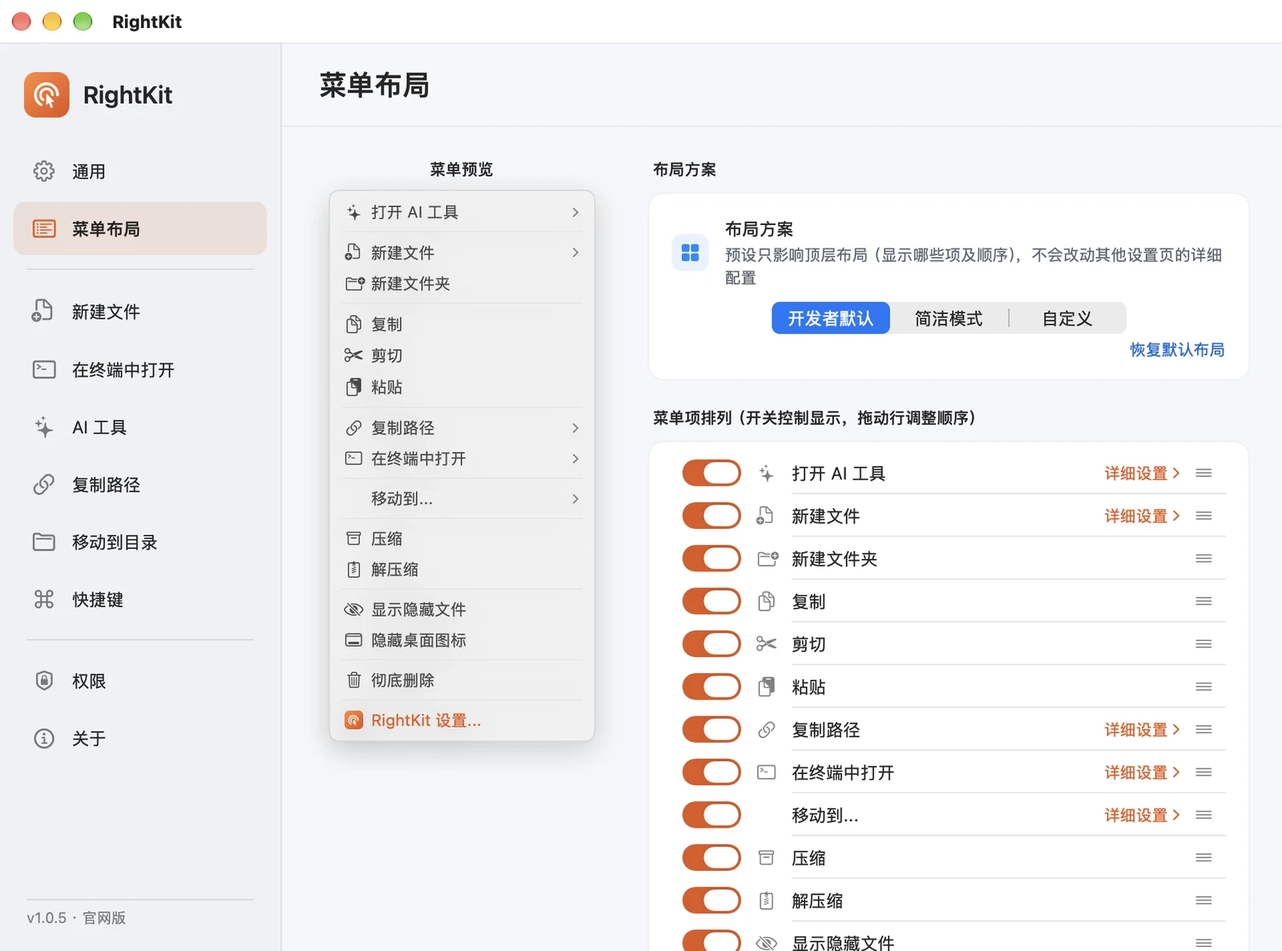
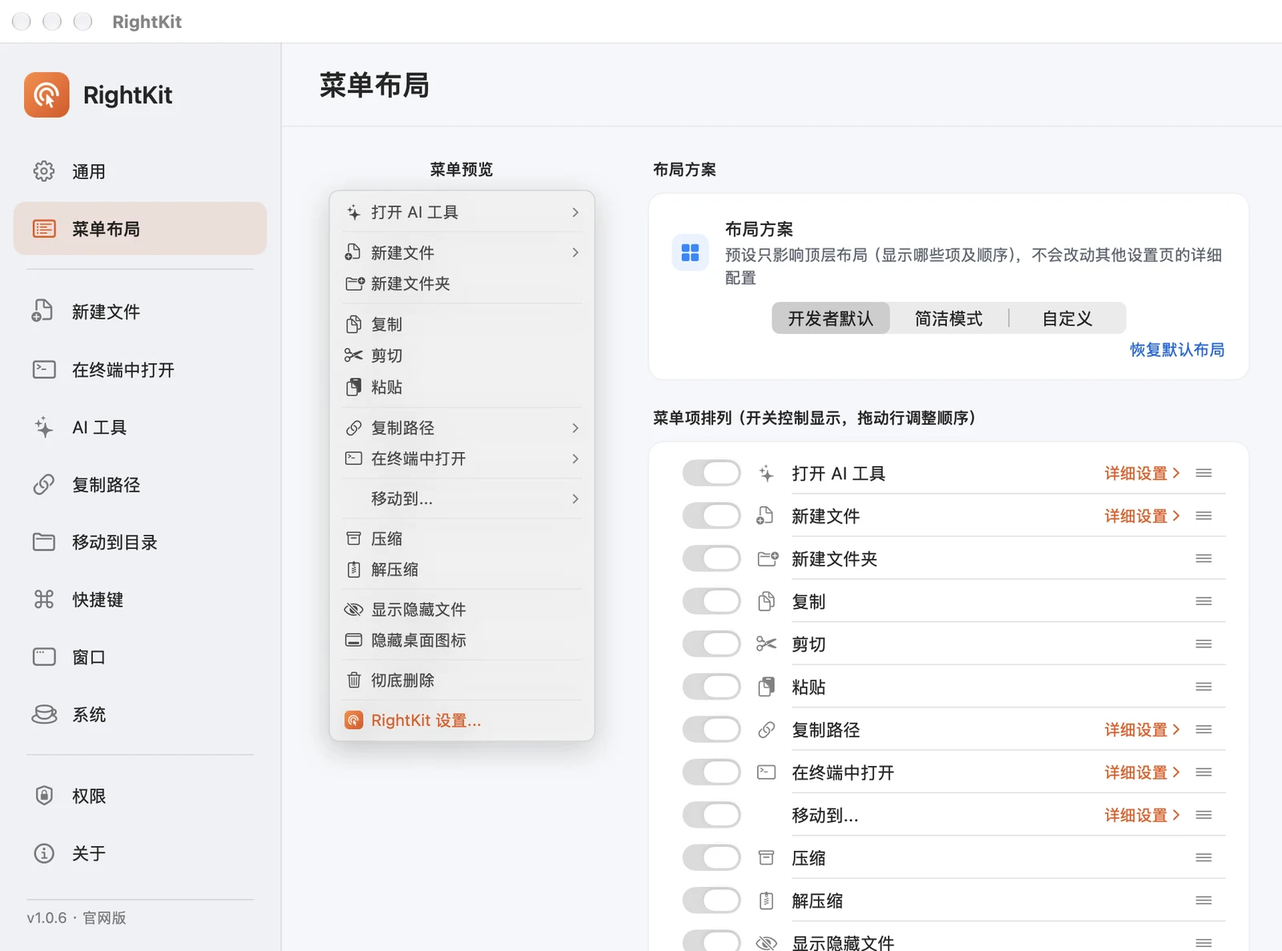
feat(desktop): 新增窗口工具和防休眠，准备 1.0.6 发布

diff --git a/i18n.js b/i18n.js
@@ -98,6 +98,10 @@
       "feat.12.p": "录屏、截图想要干净的桌面？一键隐藏全部桌面图标，用完一键恢复。",
       "feat.13.h": "彻底删除",
       "feat.13.p": "跳过废纸篓直接删除，误触前会二次确认弹窗，清理大文件或敏感内容更安心。",
+      "feat.awake.h": "防休眠与应用自动化",
+      "feat.awake.p": "5 分钟至 8 小时或不限时长，独立控制屏幕常亮，低电量/高温自动结束；可按应用运行状态自动开启。两个渠道均可用。",
+      "feat.windows.h": "窗口工具（官网版）",
+      "feat.windows.p": "Dock 单击最小化、Dock/⌘Tab 预览、摇动聚焦、隐藏与撤销。窗口操作支持 macOS 13+，预览 14+，调度中心增强 15+，需对应系统权限。",
 
       "settings.kicker": "个性化",
       "settings.h2": "菜单该有的样子，你说了算",
@@ -139,7 +143,7 @@
       "faq.q3": "会拖慢 Finder 或占用很多资源吗？",
       "faq.a3": "不会。RightKit 基于 Apple 官方的 FinderSync 扩展机制实现，菜单按需构建，后台常驻内存占用极小。",
       "faq.q4": "App Store 版和官网版有什么区别？",
-      "faq.a4": "两版都提供新建文件、复制路径、剪切粘贴、移动、压缩和剪贴板历史。App Store 版通过内购解锁，并支持 iCloud 配置同步；官网 DMG 版通过 License Key 激活，另有 AI 工具、全局快捷键及 Finder 显隐开关。两个渠道的购买独立，均可永久使用。",
+      "faq.a4": "两版都有文件操作、剪贴板历史、防休眠和应用自动化。App Store 版通过内购解锁并支持 iCloud 配置同步；官网版使用 License Key，另有 AI 工具、全局快捷键、Finder 显隐、窗口工具与兼容 Mac 的合盖选项。两个渠道独立购买，均可永久使用。",
       "faq.q5": "我的数据安全吗？",
       "faq.a5": "RightKit 不收集、不上传任何文件内容或使用数据。剪贴板历史仅保存在本机，并自动跳过密码管理器标记的隐私内容。",
 
@@ -345,6 +349,10 @@
       "feat.12.p": "螢幕錄影、截圖想要乾淨的桌面？一鍵隱藏全部桌面圖示，用完一鍵恢復。",
       "feat.13.h": "徹底刪除",
       "feat.13.p": "跳過垃圾桶直接刪除，誤觸前會二次確認彈窗，清理大檔案或敏感內容更安心。",
+      "feat.awake.h": "防休眠與應用程式自動化",
+      "feat.awake.p": "5 分鐘至 8 小時或不限時長，獨立控制螢幕常亮，低電量/高溫自動結束；可依應用程式執行狀態自動開啟。兩個渠道均可用。",
+      "feat.windows.h": "視窗工具（官網版）",
+      "feat.windows.p": "Dock 單擊最小化、Dock/⌘Tab 預覽、搖動聚焦、隱藏與復原。視窗操作支援 macOS 13+，預覽 14+，指揮中心增強 15+，需相應系統權限。",
 
       "settings.kicker": "個人化",
       "settings.h2": "選單該有的樣子，你說了算",
@@ -386,7 +394,7 @@
       "faq.q3": "會拖慢 Finder 或佔用很多資源嗎？",
       "faq.a3": "不會。RightKit 基於 Apple 官方的 FinderSync 擴充機制實現，選單按需建構，背景常駐記憶體佔用極小。",
       "faq.q4": "App Store 版和官網版有什麼區別？",
-      "faq.a4": "兩版都提供新增檔案、複製路徑、剪下貼上、移動、壓縮及剪貼簿歷史。App Store 版透過內購解鎖，支援 iCloud 設定同步；官網 DMG 版透過 License Key 啟用，另有 AI 工具、全域快捷鍵及 Finder 顯示開關。兩個渠道分別購買，均可永久使用。",
+      "faq.a4": "兩版都有檔案操作、剪貼簿歷史、防休眠與應用程式自動化。App Store 版透過內購解鎖並支援 iCloud 設定同步；官網版使用 License Key，另有 AI 工具、全域快速鍵、Finder 顯示切換、視窗工具及相容 Mac 的闔蓋選項。兩個渠道獨立購買，均可永久使用。",
       "faq.q5": "我的資料安全嗎？",
       "faq.a5": "RightKit 不收集、不上傳任何檔案內容或使用資料。剪貼簿歷史僅保存在本機，並自動跳過密碼管理器標記的隱私內容。",
 
@@ -592,6 +600,10 @@
       "feat.12.p": "Want a clean desktop for a screen recording or screenshot? Hide every desktop icon with one click, then bring them all back just as fast.",
       "feat.13.h": "Delete Permanently",
       "feat.13.p": "Skip the Trash and delete straight away, with a confirmation dialog to catch accidental clicks — great for clearing large or sensitive files.",
+      "feat.awake.h": "Keep awake and app automation",
+      "feat.awake.p": "Choose 5 minutes to 8 hours or unlimited, keep the display on independently, and stop on low battery or serious heat. Start sessions while selected apps run. Available in both editions.",
+      "feat.windows.h": "Window tools (Website edition)",
+      "feat.windows.p": "Dock-click minimize, Dock/⌘Tab previews, shake to focus, hide and undo. Window actions require macOS 13+, previews 14+, and Mission Control enhancements 15+, with the relevant permissions.",
 
       "settings.kicker": "Personalization",
       "settings.h2": "Your menu, exactly the way you want it",
@@ -633,7 +645,7 @@
       "faq.q3": "Will it slow Finder down or use a lot of resources?",
       "faq.a3": "No. RightKit is built on Apple's official FinderSync extension mechanism; menus are built on demand and its background memory footprint is tiny.",
       "faq.q4": "What's the difference between the App Store and website editions?",
-      "faq.a4": "Both editions include file creation, paths, cut/paste, moving, archives, and clipboard history. The App Store edition uses in-app purchase and supports iCloud settings sync. The website DMG uses a license key and additionally offers AI tools, global shortcuts, and Finder visibility controls. Purchases are separate and provide lifetime use.",
+      "faq.a4": "Both editions include file actions, clipboard history, keep-awake and app automation. The App Store edition uses in-app purchase and iCloud settings sync. The Website edition uses a license key and adds AI tools, global shortcuts, Finder visibility, window tools and lid options on compatible Macs. Purchases are separate and provide lifetime use.",
       "faq.q5": "Is my data safe?",
       "faq.a5": "RightKit collects and uploads no file contents or usage data. Clipboard history stays on your Mac and automatically skips content marked private by password managers.",
 
@@ -825,6 +837,10 @@
       "feat.12.p": "画面収録やスクリーンショットで、すっきりしたデスクトップにしたいときに。ワンクリックで全アイコンを非表示にし、終わったらワンクリックで元に戻せます。",
       "feat.13.h": "完全に削除",
       "feat.13.p": "ゴミ箱を経由せず即座に削除。誤操作を防ぐ確認ダイアログ付きで、大きなファイルや機密データの整理も安心です。",
+      "feat.awake.h": "スリープ防止とアプリ自動化",
+      "feat.awake.p": "5 分から 8 時間、または無制限を選択。画面の常時点灯を個別に制御し、低バッテリーや高温時に終了します。指定アプリの実行中に自動で開始でき、両エディションで利用できます。",
+      "feat.windows.h": "ウィンドウツール（公式サイト版）",
+      "feat.windows.p": "Dock クリックで最小化、Dock/⌘Tab プレビュー、揺らして集中、非表示と取り消し。操作は macOS 13+、プレビューは 14+、Mission Control 拡張は 15+ で対応する権限が必要です。",
       "settings.kicker": "パーソナライズ",
       "settings.h2": "メニューを、あなた好みの形に",
       "settings.sub": "ドラッグで並べ替え、プリセット切り替え、権限の一括チェック——細部まで思いのままに。",
@@ -863,7 +879,7 @@
       "faq.q3": "Finder が遅くなったり、リソースを多く消費したりしませんか？",
       "faq.a3": "いいえ。RightKit は Apple 公式の FinderSync 拡張の仕組みで実装され、メニューは必要時に構築されるため、バックグラウンドのメモリ使用量はごくわずかです。",
       "faq.q4": "App Store 版と公式サイト版の違いは？",
-      "faq.a4": "ファイル作成、パス、切り取り・貼り付け、移動、圧縮、履歴は両版で使えます。App Store 版はアプリ内課金と iCloud 設定同期、公式 DMG 版はライセンスキーに加え AI ツール、グローバルショートカット、Finder 表示切替を提供します。購入は別々で永久利用できます。",
+      "faq.a4": "ファイル操作、クリップボード履歴、スリープ防止、アプリ自動化は両版で利用できます。App Store 版はアプリ内課金と iCloud 設定同期、公式サイト版はライセンスキーに加え AI ツール、グローバルショートカット、Finder 表示切替、ウィンドウツール、対応 Mac の蓋オプションを提供します。購入は別々で永久利用できます。",
       "faq.q5": "私のデータは安全ですか？",
       "faq.a5": "RightKit はファイルの内容や使用データを一切収集・アップロードしません。クリップボード履歴は本体内にのみ保存され、パスワードマネージャが機密とマークした内容は自動でスキップされます。",
       "foot.copy": "© 2026 RightKit · macOS のために丁寧に作りました"
@@ -931,6 +947,10 @@
       "feat.12.p": "화면 녹화나 스크린샷을 위해 깔끔한 데스크탑이 필요할 때. 한 번의 클릭으로 모든 데스크탑 아이콘을 숨기고, 다시 클릭하면 바로 복원됩니다.",
       "feat.13.h": "완전히 삭제",
       "feat.13.p": "휴지통을 거치지 않고 바로 삭제하며, 실수 방지를 위한 확인 창이 뜹니다. 큰 파일이나 민감한 내용을 정리할 때 안심하고 사용할 수 있습니다.",
+      "feat.awake.h": "잠자기 방지와 앱 자동화",
+      "feat.awake.p": "5분부터 8시간 또는 무제한을 선택하고 화면 켜짐을 별도로 제어하세요. 배터리 부족이나 고온에서 종료되며, 지정한 앱이 실행 중일 때 자동 시작할 수 있습니다. 두 버전 모두 지원합니다.",
+      "feat.windows.h": "창 도구 (웹사이트 버전)",
+      "feat.windows.p": "Dock 클릭 최소화, Dock/⌘Tab 미리보기, 흔들어 집중, 숨기기와 실행 취소. 창 작업은 macOS 13+, 미리보기는 14+, Mission Control 확장은 15+와 해당 권한이 필요합니다.",
       "settings.kicker": "개인화",
       "settings.h2": "메뉴를 원하는 모습으로",
       "settings.sub": "드래그로 순서 변경, 프리셋 전환, 권한 자가 진단까지——세세한 부분까지 직접 조정하세요.",
@@ -969,7 +989,7 @@
       "faq.q3": "Finder가 느려지거나 리소스를 많이 쓰나요?",
       "faq.a3": "아니요. RightKit는 Apple 공식 FinderSync 확장 방식으로 구현되어 메뉴를 필요할 때 구성하며, 백그라운드 메모리 사용량이 매우 적습니다.",
       "faq.q4": "App Store 버전과 공식 사이트 버전의 차이는?",
-      "faq.a4": "파일 생성, 경로 복사, 잘라내기·붙여넣기, 이동, 압축, 기록은 공통입니다. App Store 버전은 인앱 구매와 iCloud 설정 동기화를, 공식 DMG 버전은 라이선스 키와 AI 도구·전역 단축키·Finder 표시 전환을 제공합니다. 구매는 별도이며 영구 이용 가능합니다.",
+      "faq.a4": "파일 작업, 클립보드 기록, 잠자기 방지와 앱 자동화는 공통입니다. App Store 버전은 인앱 구매와 iCloud 설정 동기화를 지원합니다. 웹사이트 버전은 라이선스 키를 사용하며 AI 도구, 전역 단축키, Finder 표시 전환, 창 도구 및 호환 Mac의 덮개 옵션을 추가 제공합니다. 구매는 별도이며 영구 이용 가능합니다.",
       "faq.q5": "제 데이터는 안전한가요?",
       "faq.a5": "RightKit는 파일 내용이나 사용 데이터를 수집·업로드하지 않습니다. 클립보드 기록은 사용자 Mac에만 저장되며 비밀번호 관리자가 비공개로 표시한 내용은 자동으로 건너뜁니다.",
       "foot.copy": "© 2026 RightKit · macOS를 위해 정성껏 만들었습니다"
@@ -1037,6 +1057,10 @@
       "feat.12.p": "Besoin d'un bureau propre pour un enregistrement d'écran ou une capture ? Masquez toutes les icônes du bureau en un clic, puis restaurez-les tout aussi vite.",
       "feat.13.h": "Supprimer définitivement",
       "feat.13.p": "Ignorez la corbeille et supprimez directement, avec une confirmation pour éviter les clics accidentels — idéal pour nettoyer des fichiers volumineux ou sensibles.",
+      "feat.awake.h": "Veille et automatisation par app",
+      "feat.awake.p": "De 5 minutes à 8 heures ou sans limite, avec contrôle indépendant de l’écran et arrêt en cas de batterie faible ou de forte chaleur. Démarrez pendant l’exécution d’apps choisies. Disponible dans les deux éditions.",
+      "feat.windows.h": "Outils de fenêtres (édition du site)",
+      "feat.windows.p": "Réduction au clic Dock, aperçus Dock/⌘Tab, secouer pour se concentrer, masquage et annulation. Actions dès macOS 13+, aperçus dès 14+, Mission Control amélioré dès 15+, avec les autorisations correspondantes.",
       "settings.kicker": "Personnalisation",
       "settings.h2": "Votre menu, exactement comme vous le voulez",
       "settings.sub": "Glissez pour réorganiser, changez de préréglage, vérifiez les autorisations en un coup d'œil — chaque détail est réglable.",
@@ -1075,7 +1099,7 @@
       "faq.q3": "Est-ce que cela ralentit le Finder ou consomme beaucoup de ressources ?",
       "faq.a3": "Non. RightKit repose sur le mécanisme d'extension FinderSync officiel d'Apple ; les menus sont construits à la demande et son empreinte mémoire en arrière-plan est minuscule.",
       "faq.q4": "Quelle différence entre les versions App Store et site officiel ?",
-      "faq.a4": "Création, chemins, couper/coller, déplacements, archives et historique sont communs. L’édition App Store utilise un achat intégré et synchronise les réglages via iCloud. Le DMG utilise une clé de licence et ajoute les outils IA, raccourcis globaux et contrôles d’affichage du Finder. Les achats sont séparés et valables à vie.",
+      "faq.a4": "Actions sur les fichiers, historique, maintien éveillé et automatisation par app sont communs. L’App Store utilise un achat intégré et iCloud. L’édition du site utilise une clé et ajoute IA, raccourcis globaux, affichage Finder, outils de fenêtres et options du capot sur les Mac compatibles. Les achats sont séparés et valables à vie.",
       "faq.q5": "Mes données sont-elles en sécurité ?",
       "faq.a5": "RightKit ne collecte ni ne transmet aucun contenu de fichier ni donnée d'usage. L'historique du presse-papiers reste sur votre Mac et ignore automatiquement le contenu marqué comme privé par les gestionnaires de mots de passe.",
       "foot.copy": "© 2026 RightKit · Conçu avec soin pour macOS"
@@ -1143,6 +1167,10 @@
       "feat.12.p": "Brauchst du für eine Bildschirmaufnahme oder einen Screenshot einen aufgeräumten Schreibtisch? Blende alle Schreibtischsymbole mit einem Klick aus und genauso schnell wieder ein.",
       "feat.13.h": "Endgültig löschen",
       "feat.13.p": "Überspringt den Papierkorb und löscht sofort, mit einer Bestätigung gegen versehentliche Klicks — praktisch beim Aufräumen großer oder sensibler Dateien.",
+      "feat.awake.h": "Wachhalten und App-Automation",
+      "feat.awake.p": "5 Minuten bis 8 Stunden oder unbegrenzt, mit separater Display-Steuerung und Stopp bei niedrigem Akku oder starker Wärme. Automatischer Start während ausgewählte Apps laufen. In beiden Editionen verfügbar.",
+      "feat.windows.h": "Fensterwerkzeuge (Website-Edition)",
+      "feat.windows.p": "Dock-Klick minimiert, Dock/⌘Tab-Vorschau, Schütteln zum Fokussieren, Ausblenden und Rückgängig. Fensteraktionen ab macOS 13+, Vorschau ab 14+, Mission Control ab 15+, jeweils mit passenden Berechtigungen.",
       "settings.kicker": "Personalisierung",
       "settings.h2": "Dein Menü, genau wie du es willst",
       "settings.sub": "Per Drag-and-Drop neu anordnen, Voreinstellungen wechseln, Berechtigungen auf einen Blick prüfen — jedes Detail lässt sich anpassen.",
@@ -1181,7 +1209,7 @@
       "faq.q3": "Verlangsamt es den Finder oder braucht es viele Ressourcen?",
       "faq.a3": "Nein. RightKit basiert auf Apples offiziellem FinderSync-Erweiterungsmechanismus; Menüs werden bei Bedarf erstellt und der Speicherbedarf im Hintergrund ist winzig.",
       "faq.q4": "Was ist der Unterschied zwischen App-Store- und Website-Version?",
-      "faq.a4": "Dateierstellung, Pfade, Ausschneiden/Einfügen, Verschieben, Archive und Verlauf sind gemeinsam. Die App-Store-Version bietet In-App-Kauf und iCloud-Einstellungssync. Das Website-DMG verwendet einen Lizenzschlüssel und ergänzt KI-Tools, globale Kürzel und Finder-Anzeigeschalter. Käufe sind getrennt und gelten dauerhaft.",
+      "faq.a4": "Dateiaktionen, Zwischenablageverlauf, Wachhalten und App-Automation sind gemeinsam. Die App-Store-Version nutzt In-App-Kauf und iCloud. Die Website-Edition nutzt einen Lizenzschlüssel und ergänzt KI, globale Kürzel, Finder-Anzeige, Fensterwerkzeuge und Deckeloptionen auf kompatiblen Macs. Käufe sind getrennt und gelten dauerhaft.",
       "faq.q5": "Sind meine Daten sicher?",
       "faq.a5": "RightKit erfasst und überträgt keine Dateiinhalte oder Nutzungsdaten. Der Zwischenablage-Verlauf bleibt auf deinem Mac und überspringt automatisch Inhalte, die von Passwortmanagern als privat markiert sind.",
       "foot.copy": "© 2026 RightKit · Mit Sorgfalt für macOS gemacht"
@@ -1249,6 +1277,10 @@
       "feat.12.p": "¿Necesitas un escritorio limpio para una grabación de pantalla o una captura? Oculta todos los iconos del escritorio con un clic y recupéralos igual de rápido.",
       "feat.13.h": "Eliminar permanentemente",
       "feat.13.p": "Se salta la papelera y elimina al instante, con una confirmación para evitar clics accidentales — ideal para limpiar archivos grandes o sensibles.",
+      "feat.awake.h": "Mantener despierto y automatización",
+      "feat.awake.p": "De 5 minutos a 8 horas o sin límite, pantalla independiente y parada por batería baja o calor intenso. Inicio automático mientras se ejecutan apps elegidas. Disponible en ambas ediciones.",
+      "feat.windows.h": "Herramientas de ventanas (web)",
+      "feat.windows.p": "Minimizar al pulsar Dock, vistas Dock/⌘Tab, agitar para enfocar, ocultar y deshacer. Acciones desde macOS 13+, vistas desde 14+, mejoras Mission Control desde 15+, con los permisos correspondientes.",
       "settings.kicker": "Personalización",
       "settings.h2": "Tu menú, exactamente como lo quieres",
       "settings.sub": "Arrastra para reordenar, cambia de preajuste, revisa los permisos de un vistazo: cada detalle es ajustable.",
@@ -1287,7 +1319,7 @@
       "faq.q3": "¿Ralentiza el Finder o consume muchos recursos?",
       "faq.a3": "No. RightKit se basa en el mecanismo oficial de extensiones FinderSync de Apple; los menús se construyen bajo demanda y su consumo de memoria en segundo plano es mínimo.",
       "faq.q4": "¿Qué diferencia hay entre la versión del App Store y la del sitio web?",
-      "faq.a4": "Creación, rutas, cortar/pegar, mover, archivos e historial son comunes. La edición del App Store usa compra integrada y sincroniza ajustes con iCloud. El DMG usa una clave de licencia y añade herramientas IA, atajos globales y controles de visibilidad del Finder. Las compras son independientes y de por vida.",
+      "faq.a4": "Archivos, historial, mantener despierto y automatización son comunes. App Store usa compra integrada e iCloud. La edición web usa una clave y añade IA, atajos globales, visibilidad Finder, ventanas y opciones de tapa en Macs compatibles. Las compras son independientes y de por vida.",
       "faq.q5": "¿Están seguros mis datos?",
       "faq.a5": "RightKit no recopila ni sube ningún contenido de archivos ni datos de uso. El historial del portapapeles permanece en tu Mac y omite automáticamente el contenido marcado como privado por los gestores de contraseñas.",
       "foot.copy": "© 2026 RightKit · Hecho con cariño para macOS"
@@ -1355,6 +1387,10 @@
       "feat.12.p": "Нужен чистый рабочий стол для записи экрана или скриншота? Скройте все значки одним кликом и так же быстро верните их обратно.",
       "feat.13.h": "Удалить безвозвратно",
       "feat.13.p": "Минуя корзину, файл удаляется сразу же — с подтверждением, чтобы избежать случайных кликов. Удобно для очистки больших или конфиденциальных файлов.",
+      "feat.awake.h": "Без сна и автоматизация приложений",
+      "feat.awake.p": "От 5 минут до 8 часов или без ограничения, отдельное управление экраном и остановка при низком заряде или сильном нагреве. Автозапуск, пока работают выбранные приложения. В обеих версиях.",
+      "feat.windows.h": "Инструменты окон (версия с сайта)",
+      "feat.windows.p": "Сворачивание кликом Dock, превью Dock/⌘Tab, встряхивание для фокуса, скрытие и отмена. Действия с macOS 13+, превью с 14+, улучшения Mission Control с 15+, с нужными разрешениями.",
       "settings.kicker": "Персонализация",
       "settings.h2": "Меню именно таким, каким вы хотите",
       "settings.sub": "Перетаскивайте для изменения порядка, переключайте пресеты, проверяйте разрешения одним взглядом — каждая деталь настраивается.",
@@ -1393,7 +1429,7 @@
       "faq.q3": "Не замедлит ли это Finder и не займёт ли много ресурсов?",
       "faq.a3": "Нет. RightKit построен на официальном механизме расширений FinderSync от Apple; меню создаются по требованию, а потребление памяти в фоне крайне мало.",
       "faq.q4": "Чем версия из App Store отличается от версии с сайта?",
-      "faq.a4": "Создание файлов, пути, вырезание/вставка, перемещение, архивы и история доступны в обеих версиях. App Store предлагает встроенную покупку и iCloud-синхронизацию настроек. DMG активируется ключом и добавляет ИИ-инструменты, глобальные сочетания и переключатели Finder. Покупки отдельные и бессрочные.",
+      "faq.a4": "Файлы, история буфера, работа без сна и автоматизация доступны в обеих версиях. App Store использует встроенную покупку и iCloud. Версия с сайта использует ключ и добавляет ИИ, глобальные сочетания, отображение Finder, окна и параметры крышки на совместимых Mac. Покупки отдельные и бессрочные.",
       "faq.q5": "В безопасности ли мои данные?",
       "faq.a5": "RightKit не собирает и не загружает содержимое файлов или данные об использовании. История буфера обмена хранится только на вашем Mac и автоматически пропускает содержимое, помеченное менеджерами паролей как приватное.",
       "foot.copy": "© 2026 RightKit · Сделано с заботой для macOS"
@@ -1461,6 +1497,10 @@
       "feat.12.p": "Precisa de uma área de trabalho limpa para uma gravação de tela ou captura? Oculte todos os ícones com um clique e restaure-os na mesma velocidade.",
       "feat.13.h": "Excluir permanentemente",
       "feat.13.p": "Pula a Lixeira e exclui na hora, com uma confirmação para evitar cliques acidentais — ótimo para limpar arquivos grandes ou sensíveis.",
+      "feat.awake.h": "Manter acordado e automação por app",
+      "feat.awake.p": "De 5 minutos a 8 horas ou sem limite, controle independente da tela e parada por bateria baixa ou calor intenso. Inicie enquanto apps escolhidos estão em execução. Disponível nas duas edições.",
+      "feat.windows.h": "Ferramentas de janelas (site)",
+      "feat.windows.p": "Minimizar ao clicar no Dock, prévias Dock/⌘Tab, agitar para focar, ocultar e desfazer. Ações no macOS 13+, prévias no 14+, melhorias Mission Control no 15+, com as permissões correspondentes.",
       "settings.kicker": "Personalização",
       "settings.h2": "Seu menu do jeito que você quiser",
       "settings.sub": "Arraste para reordenar, alterne predefinições, veja as permissões num piscar de olhos — cada detalhe é ajustável.",
@@ -1499,7 +1539,7 @@
       "faq.q3": "Isso deixa o Finder lento ou usa muitos recursos?",
       "faq.a3": "Não. O RightKit é baseado no mecanismo oficial de extensões FinderSync da Apple; os menus são construídos sob demanda e o uso de memória em segundo plano é mínimo.",
       "faq.q4": "Qual a diferença entre a versão da App Store e a do site?",
-      "faq.a4": "Criação, caminhos, recortar/colar, mover, arquivos e histórico são comuns. A App Store usa compra no app e sincroniza ajustes pelo iCloud. O DMG usa uma chave de licença e adiciona ferramentas de IA, atalhos globais e controles de exibição do Finder. As compras são separadas e vitalícias.",
+      "faq.a4": "Arquivos, histórico, manter acordado e automação são comuns. A App Store usa compra no app e iCloud. A edição do site usa uma chave e acrescenta IA, atalhos globais, exibição Finder, janelas e opções de tampa em Macs compatíveis. As compras são separadas e vitalícias.",
       "faq.q5": "Meus dados estão seguros?",
       "faq.a5": "O RightKit não coleta nem envia nenhum conteúdo de arquivo ou dado de uso. O histórico da área de transferência fica no seu Mac e ignora automaticamente conteúdo marcado como privado por gerenciadores de senhas.",
       "foot.copy": "© 2026 RightKit · Feito com carinho para o macOS"

diff --git a/index.html b/index.html
@@ -469,6 +469,16 @@ footer .flinks a:hover { color: var(--text); }
       <h3 data-i18n="feat.13.h">彻底删除</h3>
       <p data-i18n="feat.13.p">跳过废纸篓直接删除，误触前会二次确认弹窗，清理大文件或敏感内容更安心。</p>
     </div>
+    <div class="card reveal">
+      <div class="icon"><svg viewBox="0 0 24 24" fill="none" stroke="currentColor" stroke-width="2"><circle cx="12" cy="12" r="9"/><path d="M12 7v5l3 2"/></svg></div>
+      <h3 data-i18n="feat.awake.h">防休眠与应用自动化</h3>
+      <p data-i18n="feat.awake.p">5 分钟至 8 小时或不限时长，独立控制屏幕常亮，低电量/高温自动结束；可按应用运行状态自动开启。两个渠道均可用。</p>
+    </div>
+    <div class="card reveal" data-website-only>
+      <div class="icon"><svg viewBox="0 0 24 24" fill="none" stroke="currentColor" stroke-width="2"><rect x="3" y="4" width="18" height="15" rx="2"/><path d="M3 8h18M7 6h1M10 6h1"/></svg></div>
+      <h3 data-i18n="feat.windows.h">窗口工具（官网版）</h3>
+      <p data-i18n="feat.windows.p">Dock 单击最小化、Dock/⌘Tab 预览、摇动聚焦、隐藏与撤销。窗口操作支持 macOS 13+，预览 14+，调度中心增强 15+，需对应系统权限。</p>
+    </div>
   </div>
 </section>
 
@@ -579,7 +589,7 @@ footer .flinks a:hover { color: var(--text); }
     </details>
     <details>
       <summary data-i18n="faq.q4">App Store 版和官网版有什么区别？</summary>
-      <p data-i18n="faq.a4">两版都提供新建文件、复制路径、剪切粘贴、移动、压缩和剪贴板历史。App Store 版通过内购解锁，并支持 iCloud 配置同步；官网 DMG 版通过 License Key 激活，另有 AI 工具、全局快捷键及 Finder 显隐开关。两个渠道的购买独立，均可永久使用。</p>
+      <p data-i18n="faq.a4">两版都有文件操作、剪贴板历史、防休眠和应用自动化。App Store 版通过内购解锁并支持 iCloud 配置同步；官网版使用 License Key，另有 AI 工具、全局快捷键、Finder 显隐、窗口工具与兼容 Mac 的合盖选项。两个渠道独立购买，均可永久使用。</p>
     </details>
     <details>
       <summary data-i18n="faq.q5">我的数据安全吗？</summary>
